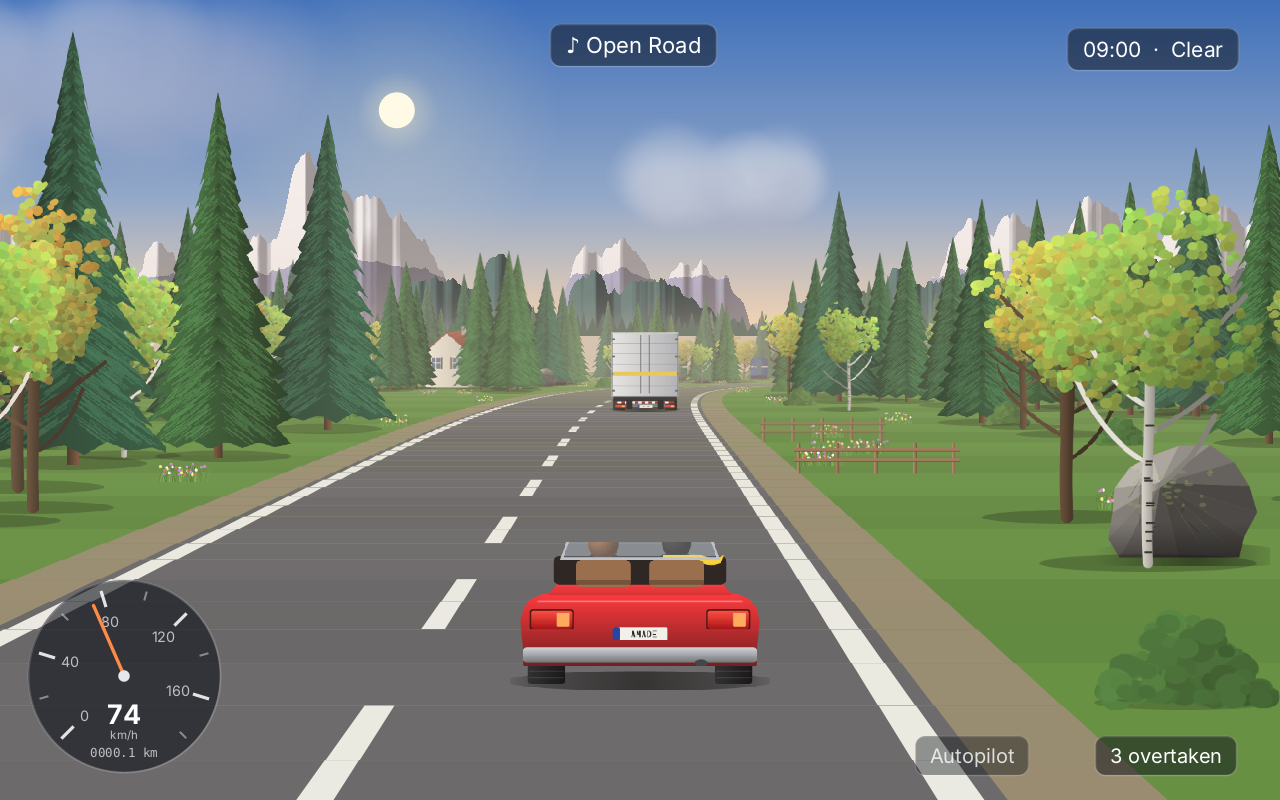
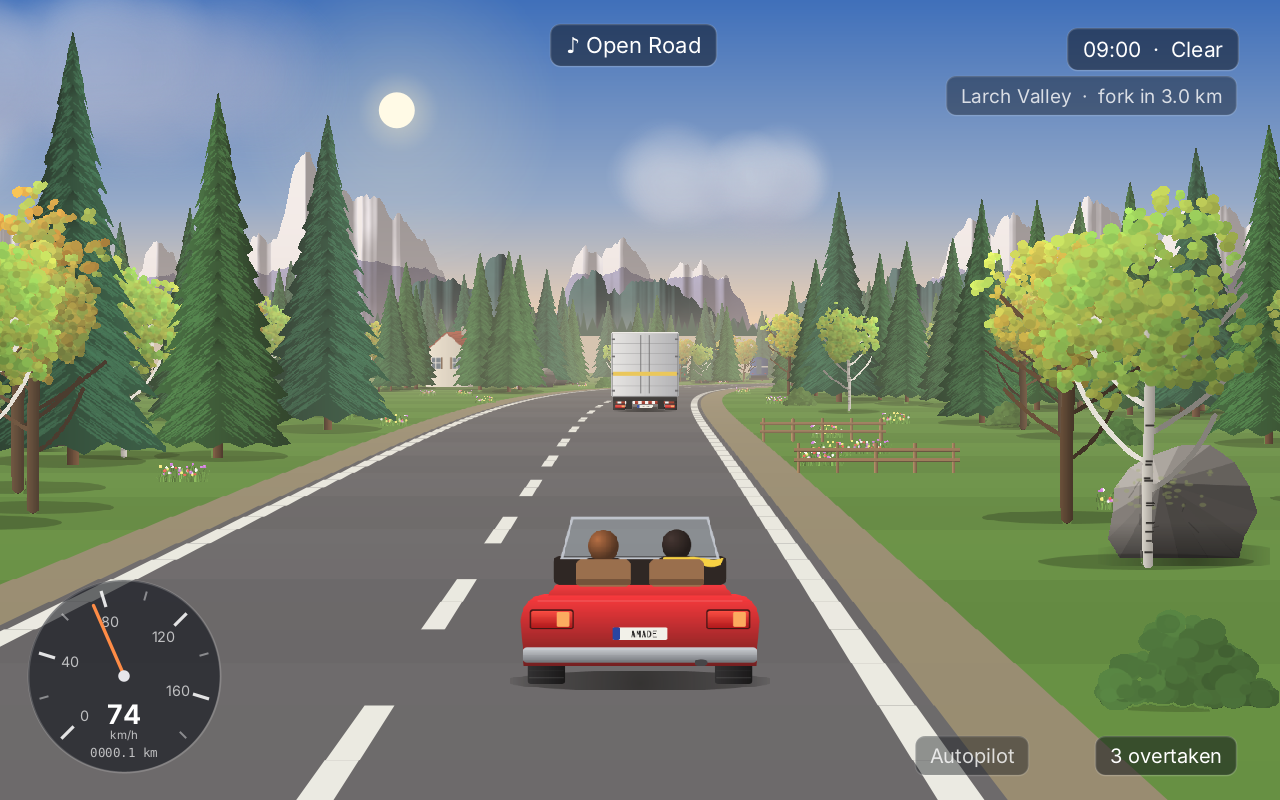
fix: whole heads in the open car, and the sports coupé as the first car
The roadster's picture was lower than the car drawn into it: the heads
and the windscreen's frame were cut off at the same row, so the heads
seemed to end at the upper edge of the glass. The picture is now as high
as the car, the windscreen is drawn behind the heads and reaches above
them. The compact car and the oncoming cars lost a few rows of their
roofs the same way.

Until a car is chosen in the garage, the first player drives the Kestrel
and the second the Roadster (it was the other way round).

In the garage's side view the scarf flies backwards.

Claude-Session: https://claude.ai/code/session_017Pd6NZ2D8sEra685B4bHsF

diff --git a/src/main/java/eu/amadeos/games/cruise/ui/game/CarArt.java b/src/main/java/eu/amadeos/games/cruise/ui/game/CarArt.java
@@ -74,7 +74,9 @@ final class CarArt {
             case TRUCK -> h = 520;
             case CAMPER -> h = 400;
             case BUS -> h = 420;
-            default -> h = 250;
+            // everything is measured up from the ground: the picture must be as high as the highest part
+            case CONVERTIBLE -> h = 300;
+            default -> h = 262;
         }
         BufferedImage im = img(w, h);
         Graphics2D g = gfx(im);
@@ -117,22 +119,24 @@ final class CarArt {
                 g.setColor(rgb(60, 60, 64));
                 g.fill(new Ellipse2D.Double(bx + bw - 110, bottom - 46, 22, 12));
                 if (type == CarType.CONVERTIBLE) {
-                    // cockpit: seat backs, heads, roll hoops, windscreen frame
+                    // cockpit, from the far end to the near one: the windscreen, the two heads before it,
+                    // the seat backs before their shoulders. The heads end below the frame's upper edge.
                     g.setColor(rgb(36, 28, 26));
                     g.fill(new RoundRectangle2D.Double(bx + 56, beltY - 70, bw - 112, 48, 20, 20));
-                    head(g, cx - 62, beltY - 92, 26, rgb(120, 70, 40), false);
-                    head(g, cx + 62, beltY - 94, 25, rgb(40, 30, 28), true);
+                    Path2D screen = poly(bx + 70, beltY - 66, bx + bw - 70, beltY - 66, bx + bw - 88, beltY - 134, bx + 88, beltY - 134);
+                    g.setColor(new Color(200, 225, 240, 70));
+                    g.fill(screen);
+                    g.setColor(rgb(190, 195, 205));
+                    g.setStroke(new BasicStroke(4f));
+                    g.draw(screen);
+                    head(g, cx - 62, beltY - 88, 26, rgb(120, 70, 40), false);
+                    head(g, cx + 62, beltY - 90, 25, rgb(40, 30, 28), true);
                     g.setColor(rgb(150, 105, 70));
                     g.fill(new RoundRectangle2D.Double(cx - 108, beltY - 64, 92, 46, 18, 18));
                     g.fill(new RoundRectangle2D.Double(cx + 16, beltY - 64, 92, 46, 18, 18));
                     g.setColor(rgb(110, 75, 50));
                     g.fill(new RoundRectangle2D.Double(cx - 108, beltY - 30, 92, 8, 4, 4));
                     g.fill(new RoundRectangle2D.Double(cx + 16, beltY - 30, 92, 8, 4, 4));
-                    g.setColor(new Color(200, 225, 240, 70));
-                    g.fill(poly(bx + 70, beltY - 66, bx + bw - 70, beltY - 66, bx + bw - 86, beltY - 112, bx + 86, beltY - 112));
-                    g.setColor(rgb(190, 195, 205));
-                    g.setStroke(new BasicStroke(4f));
-                    g.draw(poly(bx + 70, beltY - 66, bx + bw - 70, beltY - 66, bx + bw - 86, beltY - 112, bx + 86, beltY - 112));
                 } else {
                     // cabin with rear window
                     double rt = type == CarType.COUPE ? beltY - 76 : beltY - 92;
@@ -256,7 +260,7 @@ final class CarArt {
     }
 
     static RoadSprite carFront(Color body, boolean lightsOn, double worldW) {
-        int w = 440, h = 250;
+        int w = 440, h = 262;
         BufferedImage im = img(w, h);
         Graphics2D g = gfx(im);
         double cx = w / 2.0, bottom = h - 6, bw = w * 0.9, bx = cx - bw / 2, beltY = bottom - 140;
@@ -579,7 +583,12 @@ final class CarArt {
                 // cockpit: seats, driver, windscreen
                 g.setColor(rgb(150, 105, 70)); g.fill(new RoundRectangle2D.Double(196, 112, 30, 50, 14, 14));
                 g.fill(new RoundRectangle2D.Double(250, 116, 28, 46, 14, 14));
+                // mirrored, so that the scarf flies backwards
+                AffineTransform upright = g.getTransform();
+                g.translate(2 * 268, 0);
+                g.scale(-1, 1);
                 head(g, 268, 112, 15, rgb(120, 70, 40), true);
+                g.setTransform(upright);
                 paintBody(g, body, c, 148, 236, 176);
                 g.setColor(rgb(36, 28, 26)); g.fill(new RoundRectangle2D.Double(186, 146, 132, 8, 6, 6));
                 g.setColor(new Color(200, 225, 240, 110)); g.fill(poly(318, 150, 336, 150, 312, 108, 300, 108));

diff --git a/src/test/java/eu/amadeos/games/cruise/ui/game/CarArtTest.java b/src/test/java/eu/amadeos/games/cruise/ui/game/CarArtTest.java
@@ -1,0 +1,55 @@
+package eu.amadeos.games.cruise.ui.game;
+
+import eu.amadeos.games.cruise.domain.CarModel;
+import eu.amadeos.games.cruise.domain.Vehicle;
+import org.junit.jupiter.api.Test;
+
+import java.awt.Color;
+import java.awt.image.BufferedImage;
+
+import static org.junit.jupiter.api.Assertions.assertEquals;
+import static org.junit.jupiter.api.Assertions.assertTrue;
+
+/** The cars' pictures: every car fits into its picture, and in the open one the heads are whole. */
+class CarArtTest {
+    private final Art art = new Art(r -> "", b -> "");
+
+    /** The first row from the top with anything opaque in it between {@code x0} and {@code x1}, or the height. */
+    private static int top(BufferedImage im, int x0, int x1) {
+        for (int y = 0; y < im.getHeight(); y++) {
+            for (int x = x0; x < x1; x++) if ((im.getRGB(x, y) >>> 24) > 200) return y;
+        }
+        return im.getHeight();
+    }
+
+    @Test
+    void noCarIsCutOffAtTheUpperEdgeOfItsPicture() {
+        for (CarModel m : CarModel.values()) {
+            BufferedImage im = art.player(m, 0).body().art();
+            assertTrue(top(im, 0, im.getWidth()) >= 2, m + " touches the upper edge of its picture");
+        }
+        for (Vehicle v : Vehicle.values()) {
+            for (boolean oncoming : new boolean[]{false, true}) {
+                BufferedImage im = art.vehicle(v, 0, oncoming).body().art();
+                assertTrue(top(im, 0, im.getWidth()) >= 2, v + (oncoming ? " (oncoming)" : "") + " touches the upper edge of its picture");
+            }
+        }
+    }
+
+    @Test
+    void inTheOpenCarTheHeadsAreWholeAndEndBelowTheWindscreensFrame() {
+        BufferedImage im = CarArt.carRear(CarArt.CarType.CONVERTIBLE, new Color(196, 36, 40), "AMADE", false, 560).art();
+        int w = im.getWidth();
+        // the frame's upper bar is the highest part of the car; between the heads only the bar and glass are there
+        int frame = top(im, w / 2 - 4, w / 2 + 4);
+        assertEquals(frame, top(im, 0, w), "nothing stands above the windscreen");
+        // each head begins clearly below the bar: a column through its middle shows the bar, then glass, then hair
+        for (int x : new int[]{w / 2 - 62, w / 2 + 62}) {
+            int y = frame;
+            while ((im.getRGB(x, y) >>> 24) > 200) y++;          // through the bar
+            int glass = y;
+            while ((im.getRGB(x, y) >>> 24) <= 200) y++;         // through the glass above the head
+            assertTrue(y - glass >= 8, "glass above the head at " + x + ": " + (y - glass) + " rows");
+        }
+    }
+}

diff --git a/src/test/java/eu/amadeos/games/cruise/ui/game/CruiseGameTest.java b/src/test/java/eu/amadeos/games/cruise/ui/game/CruiseGameTest.java
@@ -57,6 +57,16 @@ class CruiseGameTest {
         }
     }
 
+    /** The highest speed of the first car in the next {@code s} seconds: a tractor ahead may slow it down at the end. */
+    private double fastest(double s) {
+        double best = 0;
+        for (double t = 0; t < s; t += 0.25) {
+            seconds(0.25);
+            best = Math.max(best, ((CruiseGame.JourneyScene) game.top()).trip().lead().kmh());
+        }
+        return best;
+    }
+
     private void press(int key) {
         keyboard.pressed(key, now[0]);
         seconds(STEP * 2);
@@ -80,10 +90,9 @@ class CruiseGameTest {
         press(KeyEvent.VK_ENTER);
         assertInstanceOf(CruiseGame.JourneyScene.class, game.top());
         keyboard.pressed(KeyEvent.VK_UP, now[0]);
-        seconds(5);
+        double kmh = fastest(5);
         keyboard.released(KeyEvent.VK_UP, now[0]);
-        CruiseGame.JourneyScene journey = (CruiseGame.JourneyScene) game.top();
-        assertTrue(journey.trip().lead().kmh() > 60, "the arrow up drives: " + journey.trip().lead().kmh());
+        assertTrue(kmh > 60, "the arrow up drives: " + kmh);
         assertTrue(game.journal().km() > 0.05);
         draw();
         press(KeyEvent.VK_ESCAPE);
@@ -102,10 +111,11 @@ class CruiseGameTest {
         press(KeyEvent.VK_DOWN);
         press(KeyEvent.VK_ENTER);
         assertInstanceOf(CruiseGame.GarageScene.class, game.top());
+        assertEquals(CarModel.KESTREL, settings.car(0), "the sports coupé until another car is chosen");
         press(KeyEvent.VK_RIGHT);
         press(KeyEvent.VK_DOWN);
         draw();
-        assertEquals("kestrel", settings.car(0).id());
+        assertEquals("wanderer", settings.car(0).id());
         assertEquals(1, settings.colour(0));
         press(KeyEvent.VK_TAB);
         CarModel second = settings.car(1);
@@ -155,10 +165,10 @@ class CruiseGameTest {
     void theAutopilotDrivesAndAPhotoIsSaved() throws Exception {
         press(KeyEvent.VK_ENTER);
         press(KeyEvent.VK_C);
-        seconds(6);
+        double kmh = fastest(6);
         CruiseGame.JourneyScene journey = (CruiseGame.JourneyScene) game.top();
         assertTrue(journey.trip().autopilot(0));
-        assertTrue(journey.trip().lead().kmh() > 20, "kmh " + journey.trip().lead().kmh());
+        assertTrue(kmh > 20, "kmh " + kmh);
         press(KeyEvent.VK_P);
         Path pictures = dir.resolve("Pictures/Cruise");
         for (int i = 0; i < 100 && !(Files.isDirectory(pictures) && Files.list(pictures).findAny().isPresent()); i++) Thread.sleep(50);

diff --git a/src/main/java/eu/amadeos/games/cruise/repository/CruiseSettings.java b/src/main/java/eu/amadeos/games/cruise/repository/CruiseSettings.java
@@ -191,9 +191,9 @@ public final class CruiseSettings {
         set("shuffle", on ? "on" : "off");
     }
 
-    /** The car of player 1 or 2. */
+    /** The car of player 1 or 2: the sports coupé until one is chosen, and the roadster for the second player. */
     public CarModel car(int player) {
-        return CarModel.ofId(get(player == 0 ? "car" : "car2", player == 0 ? "roadster" : "kestrel"));
+        return CarModel.ofId(get(player == 0 ? "car" : "car2", (player == 0 ? CarModel.KESTREL : CarModel.ROADSTER).id()));
     }
 
     public void setCar(int player, CarModel model) {

diff --git a/src/test/java/eu/amadeos/games/cruise/repository/CruiseSettingsTest.java b/src/test/java/eu/amadeos/games/cruise/repository/CruiseSettingsTest.java
@@ -19,6 +19,13 @@ class CruiseSettingsTest {
     Path dir;
 
     @Test
+    void theFirstCarIsTheSportsCoupeAndTheSecondPlayersTheRoadster() {
+        CruiseSettings s = new CruiseSettings(dir.resolve("cruise.properties"));
+        assertEquals(CarModel.KESTREL, s.car(0));
+        assertEquals(CarModel.ROADSTER, s.car(1));
+    }
+
+    @Test
     void everySettingSurvivesARestart() {
         Path file = dir.resolve("cruise.properties");
         CruiseSettings s = new CruiseSettings(file);

diff --git a/src/test/java/eu/amadeos/games/cruise/ui/game/Screenshots.java b/src/test/java/eu/amadeos/games/cruise/ui/game/Screenshots.java
@@ -42,7 +42,7 @@ public final class Screenshots {
         Path dir = Files.createTempDirectory("cruise");
         Messages msg = Messages.load(CruiseModule.class, CruiseModule.MESSAGES, locale);
         CruiseSettings settings = new CruiseSettings(dir.resolve("cruise.properties"));
-        settings.setCar(1, CarModel.KESTREL);
+        settings.setCar(1, CarModel.ROADSTER);
         settings.setColour(1, 1);
         Mixer mixer = new Mixer();
         mixer.setMuted(true);

diff --git a/src/main/java/eu/amadeos/games/cruise/domain/CarModel.java b/src/main/java/eu/amadeos/games/cruise/domain/CarModel.java
@@ -76,6 +76,6 @@ public enum CarModel {
 
     public static CarModel ofId(String id) {
         for (CarModel m : values()) if (m.id().equals(id)) return m;
-        return ROADSTER;
+        return KESTREL;
     }
 }

diff --git a/README.md b/README.md
@@ -30,7 +30,7 @@ Four routes (Coast Run, Canyon Sprint, Night Loop and Valley Tour) against five 
 
 ## The cars
 
-In the garage each player chooses a car and its colour:
+In the garage each player chooses a car and its colour. Until then the first player drives the Kestrel and the second the Roadster:
 
 - **Roadster**: open top, the wind, the birds and the sun.
 - **Kestrel**: a sports coupé, quick, low and a little nervous.
